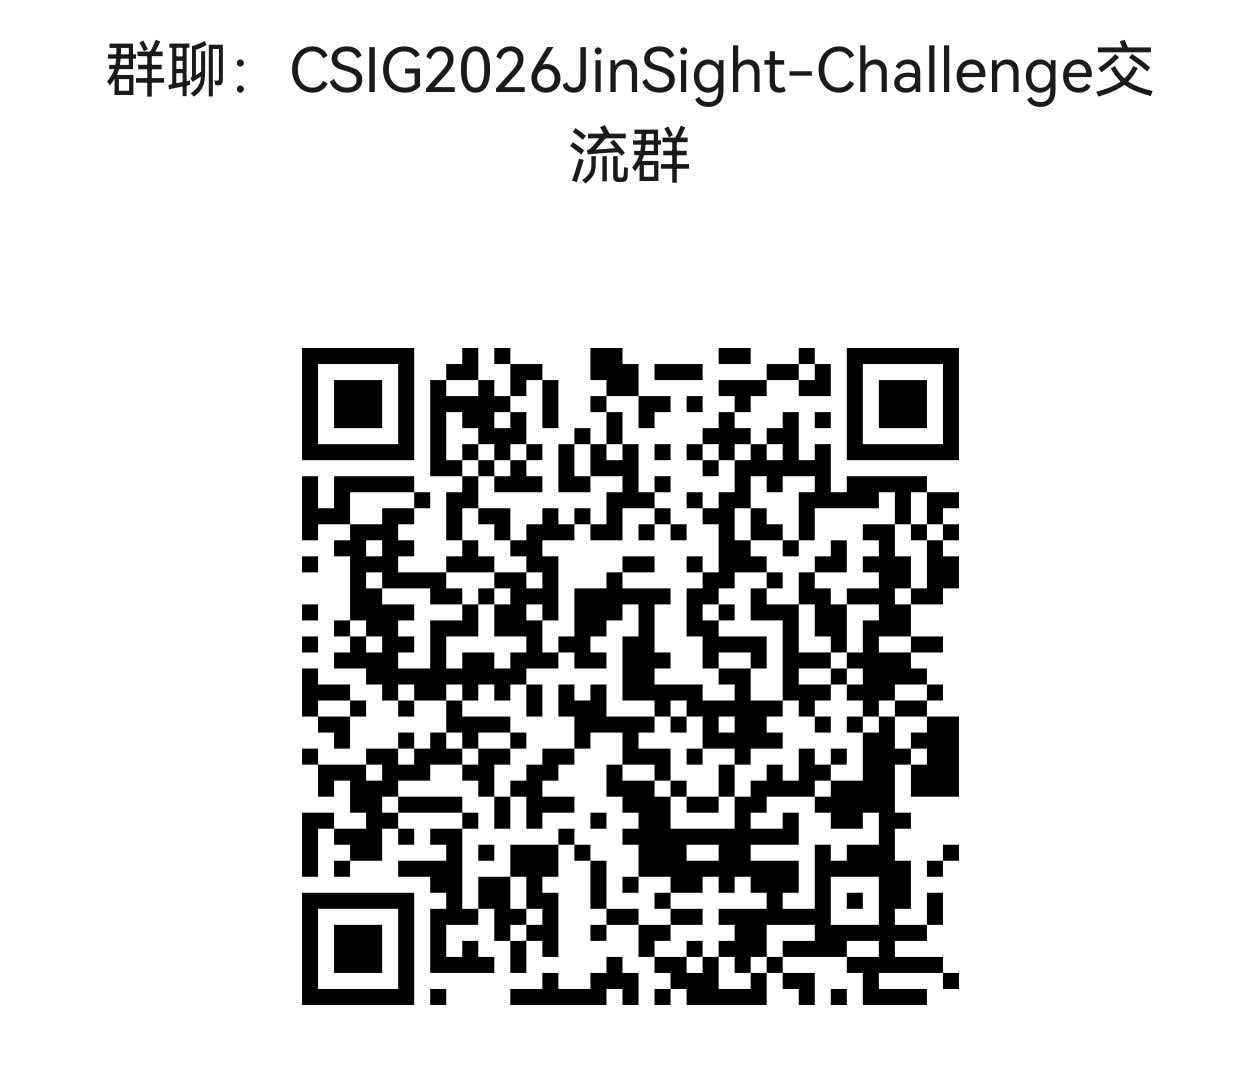
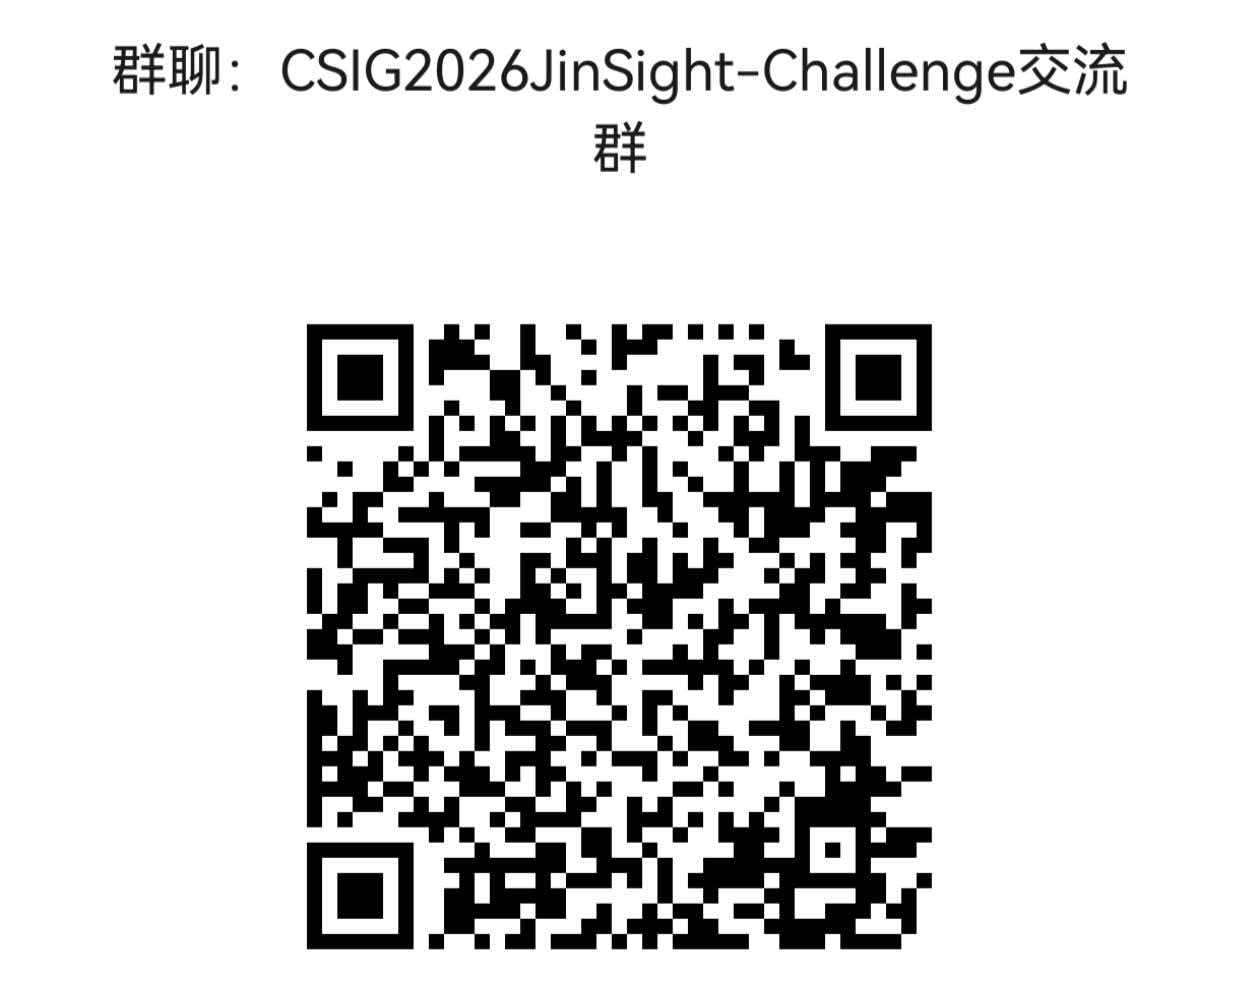
Update V3 WeChat group QR code

Changed region(s): [[0.2184, 0.3033, 0.78, 0.9707], [0.2184, 0.0303, 0.936, 0.182], [0.0624, 0.0303, 0.1872, 0.091]]

diff --git a/index.html b/index.html
@@ -145,7 +145,7 @@
       <p>联系邮箱：<a href="mailto:wangyuji@nudt.edu.cn" style="color: blue;">wangyuji@nudt.edu.cn</a></p>
       <p>联系电话：17886338254</p>
       <p>比赛交流微信群：</p>
-      <p><img src="./img/wechat-challenge-group-1.jpg" alt="比赛交流微信群" class="divcss5" style="width: 30%;"></p>
+      <p><img src="./img/wechat-challenge-group-1.jpg?v=20260608" alt="比赛交流微信群" class="divcss5" style="width: 30%;"></p>
       <p>
         <a href="./schedule/index.html" style="color: blue;">查看赛事日程</a> |
         <a href="./submission/index.html" style="color: blue;">进入赛事报名</a>
